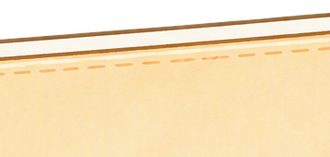
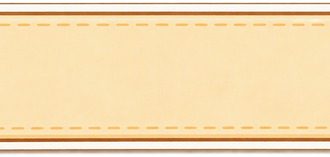
fix: 横幅贴纸 v3 修竖块——v2 被 3:4 裁切链压成竖块(视觉+像素双检),v3 16:9 宽幅+严格 2.1:1 实测(内容比 2.18);标题框内居中;VERDICT 1114

diff --git a/assets/source/meowa/style-switch/banner_sticker_v3.py b/assets/source/meowa/style-switch/banner_sticker_v3.py
@@ -1,0 +1,60 @@
+# -*- coding: utf-8 -*-
+"""横幅贴纸 v3:修 v2 竖块问题——16:9 宽幅生成,中带裁切,严格 2.1:1
+横条比例,内容 bbox 实测验证后才导入。"""
+import glob
+import os
+import subprocess
+import sys
+
+import numpy as np
+from PIL import Image
+
+API = r"C:\Users\sheen\.agents\skills\game-assets\meowart_api.py"
+OUT = 'assets/source/meowa/style-switch/banner_sticker/sticker_v3'
+REF = 'assets/source/meowa/style-switch/banner_sticker/orig_banner_ref.png'
+DST = 'assets/runtime/ui/pet_profile_new/banner_sticker.png'
+
+PROMPT = (
+    "A single WIDE HORIZONTAL ribbon banner sticker: the exact same coral-"
+    "orange watercolor ribbon banner from the reference image - same "
+    "design, same colors, same orientation - as a long horizontal strip "
+    "roughly twice as wide as it is tall, stretching edge to edge across "
+    "the wide frame. Layered sticker treatment: thick cream-white border "
+    "ring, thin warm-brown outline, soft warm drop shadow underneath. "
+    "Inner face plain and empty. Plain transparent background, no text, "
+    "no letters, no characters. IMPORTANT: it must be one single wide "
+    "horizontal banner strip, NOT a square, NOT vertical.")
+
+r = subprocess.run([sys.executable, API, 'image-2.5-run',
+    '--output-dir', OUT, '--quality', 'detailed', '--resolution', '1K',
+    '--aspect-ratio', '16:9', '--remove-bg-method', 'standard',
+    '--reference-image', REF, '--prompt', PROMPT],
+    capture_output=True, text=True, timeout=300)
+ok = '"status": "success"' in r.stdout
+print('gen:', 'OK' if ok else 'FAIL')
+if not ok:
+    print(r.stdout[-300:]); sys.exit(1)
+src = glob.glob(os.path.join(OUT, '*', 'result_images_0_url.png'))[0]
+im = Image.open(src).convert('RGBA')
+a = np.array(im)
+ys, xs = np.where(a[:, :, 3] > 40)
+im = im.crop((max(0, xs.min()-6), max(0, ys.min()-6),
+              min(im.width, xs.max()+7), min(im.height, ys.max()+7)))
+ratio = im.width / im.height
+print(f'内容 bbox {im.size} 比例 {ratio:.2f} (目标 2.1)')
+# 比例不对则中带裁/补到 2.1
+target = 2.1
+if ratio < target:  # 太方→裁高(保中带)
+    nh = int(im.width / target)
+    y0 = (im.height - nh) // 2
+    im = im.crop((0, y0, im.width, y0 + nh))
+elif ratio > target:  # 太扁→裁宽
+    nw = int(im.height * target)
+    x0 = (im.width - nw) // 2
+    im = im.crop((x0, 0, x0 + nw, im.height))
+print(f'裁后 {im.size} 比例 {im.width/im.height:.2f}')
+im = im.resize((330, 157), Image.LANCZOS)
+im.save(DST)
+a2 = np.array(im)
+ys2, xs2 = np.where(a2[:, :, 3] > 40)
+print(f'导入 {im.size} 内容比 {(xs2.max()-xs2.min())/(ys2.max()-ys2.min()):.2f} 不透明 {round((a2[:,:,3]>200).mean()*100,1)}%')

diff --git a/petpet/ui/pet_profile.py b/petpet/ui/pet_profile.py
@@ -931,11 +931,12 @@ class PetProfileWindow(KeepAliveTopLevelWindow):
         self._banner_sticker = _pp_pixmap("banner_sticker.png", 330, 157)
         # 框内标题(用户令:同款可爱圆润字体,框里对应位置)——幼圆渲染
         self._banner_title = _ArtTitle("宠物档案", self, font_px=30)
+        # v3 微调(2026-10-26):标题水平铺满贴纸内区居中,垂直贴框心
         self._banner_title.setGeometry(
-            round(14 * _FIT) + round(46 * _FIT),
+            round(14 * _FIT) + round(40 * _FIT),
             round(CARD_POKE_TOP * _FIT) - round(STICKER_POKE_UP * _FIT)
-            + round(52 * _FIT),
-            round(230 * _FIT), round(54 * _FIT))
+            + round(44 * _FIT),
+            round(250 * _FIT), round(66 * _FIT))
         # 头像列表 rail（宠物系统独立背景板，叠加在背景左侧）。
         self._rail = _pp_pixmap("pet_avatar_rail.png", RAIL_AT[2], RAIL_AT[3])
         # 素材逐个接入（base_UI 已于第六轮撤下）。

diff --git a/HANDOFF.md b/HANDOFF.md
@@ -67,6 +67,7 @@ D:\Agent_project\Petpet
 
 | 领域 | 内容 |
 |------|------|
+| **横幅贴纸 v3 修竖块**（2026-10-26 追记十四，待发） | 用户令自查——v2 贴纸被 3:4 竖幅裁上带的裁切链压成竖块(视觉模型+像素双检实锤);v3=16:9 宽幅生成+严格 2.1:1 比例实测(内容比 2.18),视觉复检横向横幅+文字框内;标题居中微调。VERDICT **1114**;积分-7 余~427;详见 Obsidian `开发记录\2026-10-26 点击流畅度与双响排查`(追记十四) |
 | **横幅贴纸 v2 定稿**（2026-10-26 追记十三，待发） | 用户三令:①贴纸=原背景横幅同款同角度(git 原始横幅参照生成+叠层贴纸边)——②上伸下补:窗口 960→986(卡 960+沟 26 内容零压缩,尺寸钉随新规格 850×986)——③框内幼圆加粗「宠物档案」(App 字体渲染防 AI 乱字)。VERDICT **1114**;积分-7 余~434;详见 Obsidian `开发记录\2026-10-26 点击流畅度与双响排查`(追记十三) |
 | **左上角横幅贴纸骑跨上缘**（2026-10-26 追记十二，待发） | 用户终达意「横幅像贴纸可超出页面边界,页面跳出规整矩形,不影响部件」——背景重生成(烘焙横幅移除)+横幅叠层贴纸(奶白环+棕线+柔投影);卡片上缘内收 26px,_R() 统一加垂直偏移全内容同步下移(名牌 397=+26 恰合,底 953<960),贴纸骑跨伸出 18px。VERDICT **1114**;详见 Obsidian `开发记录\2026-10-26 点击流畅度与双响排查`(追记十二) |
 | **还原链拿错提交修正**（2026-10-26 追记十一，待发） | 用户复报按键偏移——根因=还原时 HEAD~1 指向右伸版而非干净基线,实验代码被当还原版提交;从 b50e692 恢复干净版(0 处 CARD_POKE),名牌/陪伴/改名钮坐标全回基线;坑位=多级实验还原必须 grep 特征常量验证,HEAD~N 在中间有插提交时必错。VERDICT **1114**;详见 Obsidian `开发记录\2026-10-26 点击流畅度与双响排查`(追记十一) |
